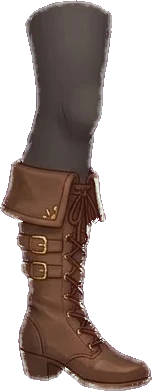
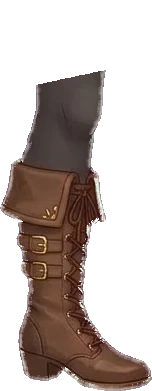
feat(rig): lock the final hand-tuned fit
Side view skirt, legs and boots refit (boot tops trimmed in the side view),
back-view forearms tucked behind the skirt, as set in the rig editor. A test
keeps the no-cape, no-neck fit from regressing.

Claude-Session: https://claude.ai/code/session_0178JCr5DuUpPvDwy7b6AxGM

Changed region(s): [[0.1579, 0.0, 0.7368, 0.2148]]

diff --git a/sw.js b/sw.js
@@ -57,8 +57,8 @@ const PRECACHE_URLS = [
   "./assets/art/avatar/boots/back_right.webp?v=2",
   "./assets/art/avatar/boots/front_left.webp",
   "./assets/art/avatar/boots/front_right.webp",
-  "./assets/art/avatar/boots/side_far.webp",
-  "./assets/art/avatar/boots/side_near.webp",
+  "./assets/art/avatar/boots/side_far.webp?v=2",
+  "./assets/art/avatar/boots/side_near.webp?v=2",
   "./assets/art/avatar/expressions/head_blink.webp?v=2",
   "./assets/art/avatar/expressions/head_focused.webp?v=2",
   "./assets/art/avatar/expressions/head_halfblink.webp?v=2",
